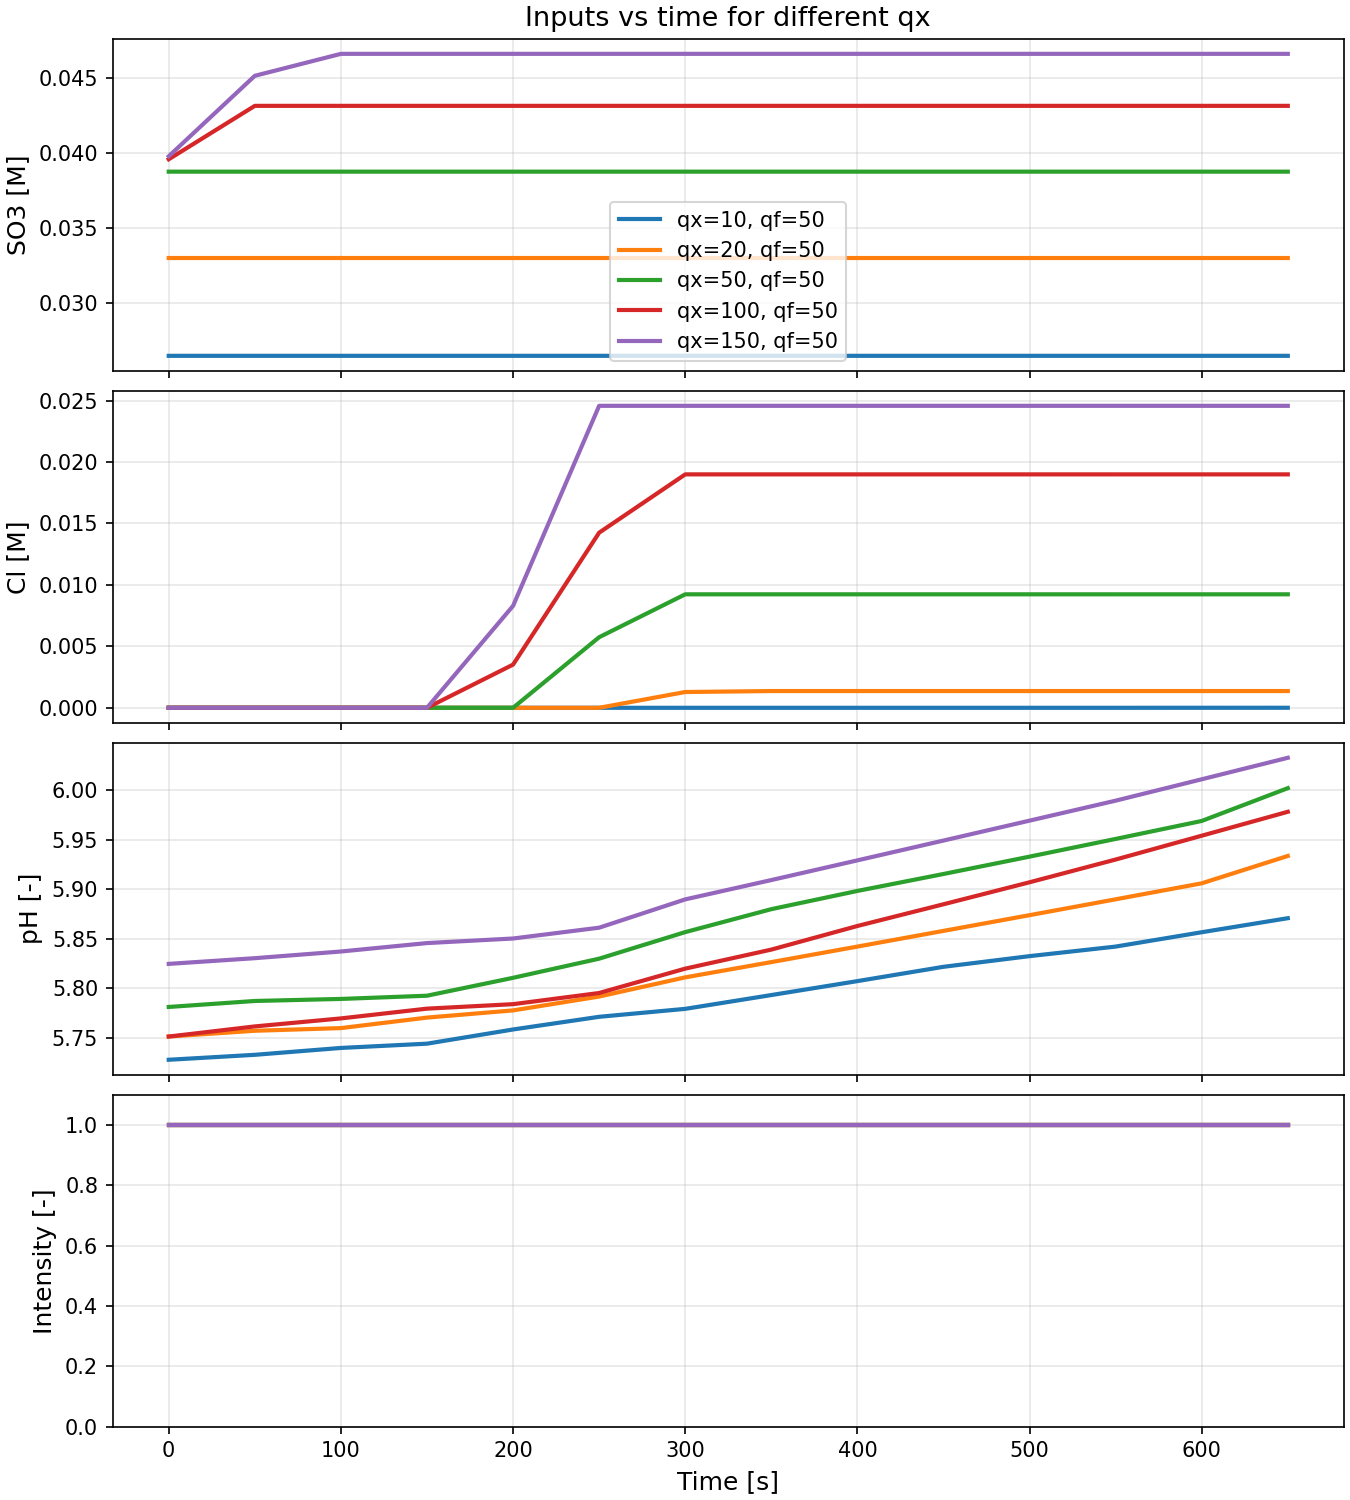
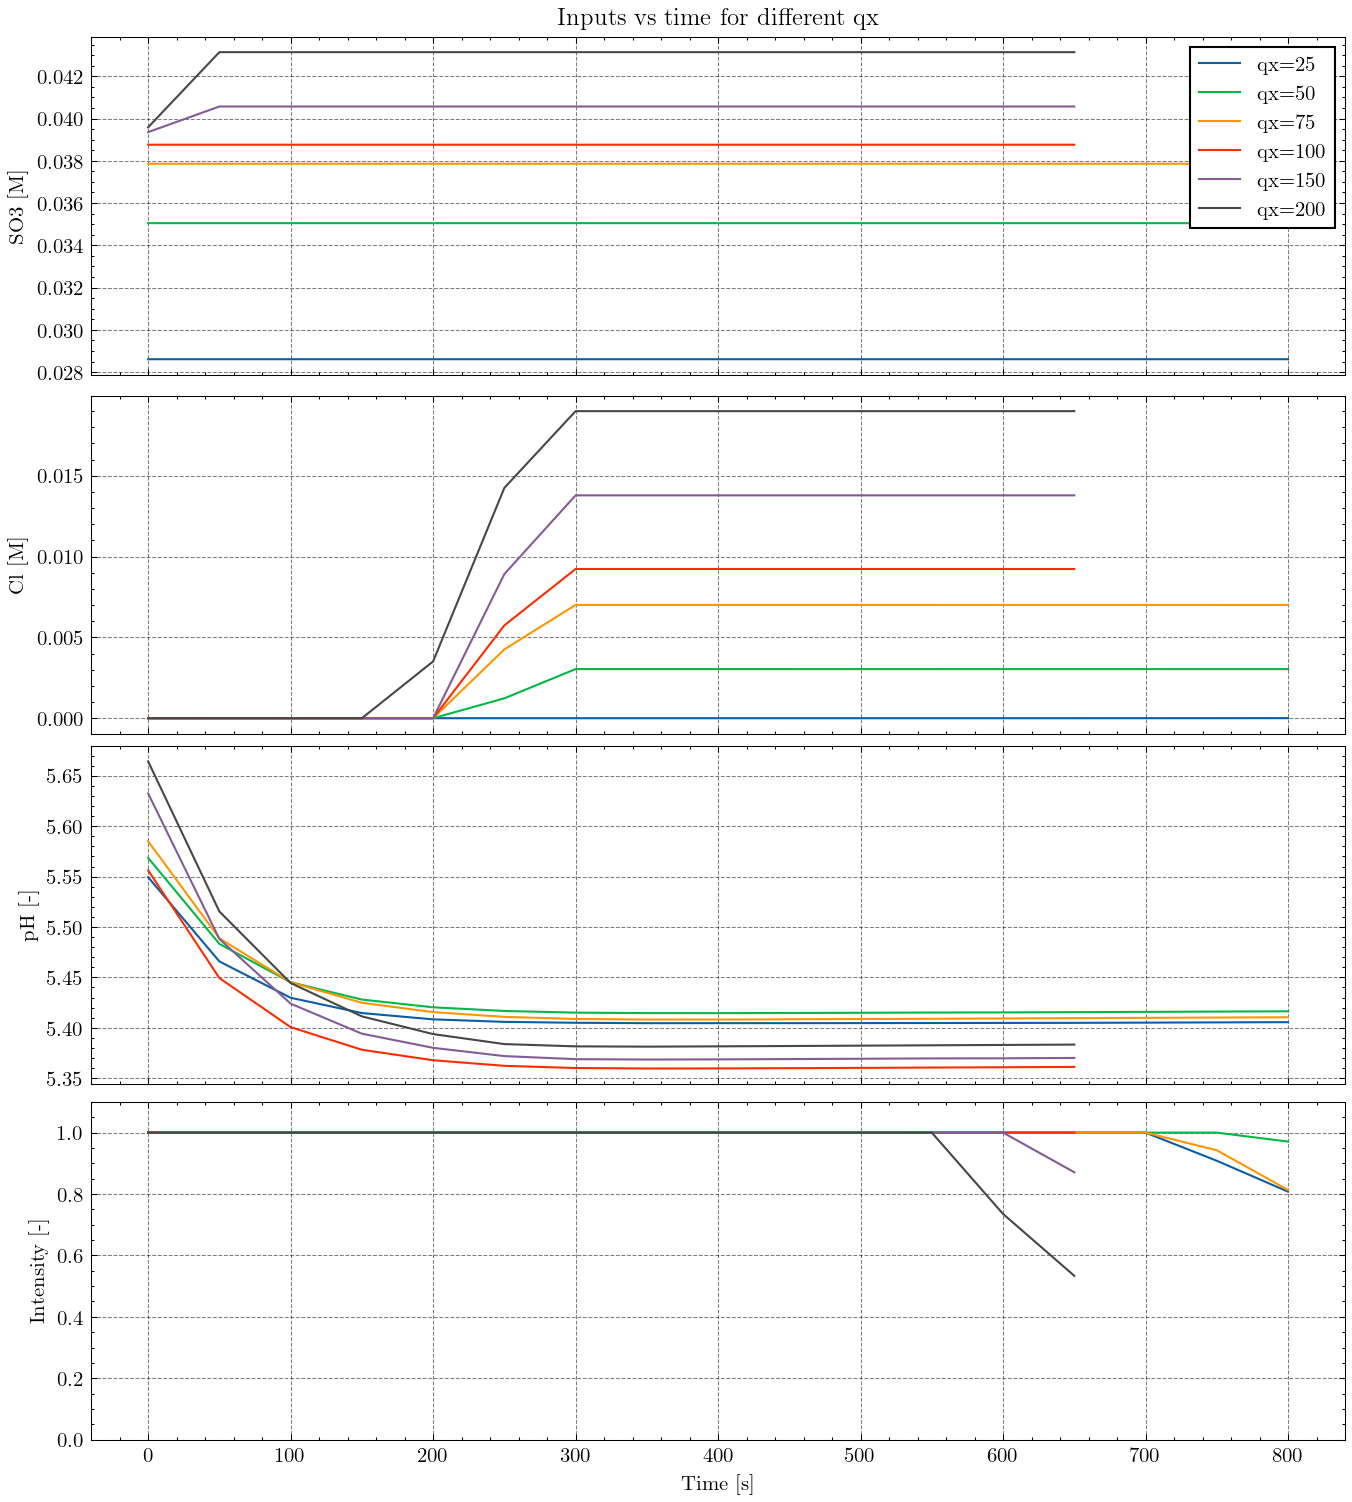
Changes to plot and tewaks to limits

diff --git a/Controller/sweep_costs.py b/Controller/sweep_costs.py
@@ -7,6 +7,7 @@ from pathlib import Path
 import numpy as np
 import matplotlib.pyplot as plt
 import sys
+import scienceplots
 
 from helper_functions import (
     find_project_root,
@@ -101,7 +102,7 @@ def run_sim(qx_val, qf_val, steps=50):
         c_pfas_init=init_vals["c_pfas_init"],
         dt=dt_sim,
         substeps=substeps,
-        N=3,
+        N=6,
         weights=weights,
         u_max=u_max,
         x0_flat=x0_flat,
@@ -179,50 +180,65 @@ def run_sim(qx_val, qf_val, steps=50):
 
 
 def main():
-    qx_list = [10, 20, 50, 100, 150]
+    qx_list = [25, 50, 75, 100, 150,200]
     qf_list = [50]
+    step_arr = [17,14]
 
     results = {}
     for qx in qx_list:
         for qf in qf_list:
+            if qx >= 100:
+                n_steps = step_arr[1]
+            else:
+                n_steps = step_arr[0]
             print(f"Running qx={qx}, qf={qf} ...")
-            t, X, costs, u_hist = run_sim(qx, qf, steps=14)
+            t, X, costs, u_hist = run_sim(qx, qf, steps=n_steps)
             results[(qx, qf)] = (t, X, costs,u_hist)
 
-    plt.rcParams.update({
-        "axes.labelsize": 12,
-        "axes.titlesize": 13,
-        "legend.fontsize": 10,
-        "xtick.labelsize": 10,
-        "ytick.labelsize": 10,
-        "lines.linewidth": 2.0,
-        "grid.alpha": 0.3,
-    })
+    plt.style.use(["science", "grid"])
+    plt.rcParams.update(
+    {
+        "legend.loc": "1",
+        "font.family": "serif",
+    }
+)
 
     fig, axes = plt.subplots(2, 1, figsize=(9, 9), constrained_layout=True)
 
     # Plot ΣPFAS over time
     ax0 = axes[0]
+    i = 0
     for (qx, qf), (t, X, _, _) in results.items():
+        i += 1
         Z = np.sum(X[:, :7], axis=1)
-        ax0.plot(t, Z, label=f"qx={qx}, qf={qf}")
+        if i == 1:
+            ax0.hlines(Z[0]*0.1, xmin=t[0]-1000, xmax=t[-1]+1000, colors='k', linestyles='dashed', label='$10\%$ remaning')
+            ax0.hlines(Z[0]*0.01, xmin=t[0]-1000, xmax=t[-1]+1000, colors='k', linestyles='dashed', label='$1\%$ remaning')
+            ax0.set_xlim(t[0], t[-1])
+        
+        ax0.plot(t, Z, label=f"qx={qx}")
     ax0.set_xlabel("Time [s]")
-    ax0.set_ylabel("Σ PFAS [M]")
-    ax0.set_title("Σ PFAS vs time for different (qx, qf)")
+    ax0.set_ylabel("$\sum$ PFAS [M]")
+    ax0.set_title("$\sum$ PFAS vs time for different parameter weights")
     ax0.grid(True)
-    ax0.legend()
+    ax0.legend(fancybox=False, edgecolor="black")
+
 
     # Plot actuation-only costs per step
     ax1 = axes[1]
-    for (qx, qf), (_, _, costs,_) in results.items():
-        ax1.plot(np.arange(len(costs)), costs, label=f"qx={qx}, qf={qf}")
-    ax1.set_xlabel("Step")
-    ax1.set_ylabel("Cost per mol PFAS removed [DKK/mol] (414.05g PFOA)")
-    ax1.set_title("Actuation-only cost per step")
+    i = 0
+    for (qx, qf), (t, _, costs,_) in results.items():
+        ax1.plot(t[0:-1], costs, label=f"qx={qx}")
+        i +=1
+        if i == 1:
+            ax1.set_xlim(t[0], t[-1])
+    ax1.set_xlabel("Time [s]")
+    ax1.set_ylabel("Cost [DKK/mol] (414.05g PFOA)")
+    ax1.set_title("Actuation-only cost")
     ax1.grid(True)
-    ax1.legend()
+    ax1.legend(fancybox=False, edgecolor="black")
 
-    out_path = Path(__file__).resolve().parent.parent / "sweep_costs.png"
+    out_path = Path(__file__).resolve().parent.parent / "results" / "sweep_costs.png"
     plt.savefig(out_path, dpi=150)
     print(f"Saved figure to {out_path}")
     plt.show()
@@ -233,19 +249,20 @@ def main():
     for idx, ax in enumerate(axes_act):
         for (qx, qf), (t, X, _, u_hist) in results.items():
             # u_hist shape: (steps, 4)
-            ax.plot(t[:-1], u_hist[:, idx], label=f"qx={qx}, qf={qf}" if idx == 0 else None)
+            ax.plot(t[:-1], u_hist[:, idx], label=f"qx={qx}" if idx == 0 else None)
         ax.set_ylabel(labels[idx])
         ax.grid(True)
         if idx == 0:
             ax.set_title("Inputs vs time for different qx")
     axes_act[-1].set_xlabel("Time [s]")
-    axes_act[0].legend()
+    axes_act[0].legend(fancybox=False, edgecolor="black")
     # intensity axis (last subplot) limited to [0, 1]
     axes_act[-1].set_ylim(0.0, 1.1)
-    out_path_act = Path(__file__).resolve().parent.parent / "sweep_costs_inputs.png"
+    out_path_act = Path(__file__).resolve().parent.parent /"results" / "sweep_costs_inputs.png"
     plt.savefig(out_path_act, dpi=150)
     print(f"Saved input figure to {out_path_act}")
     plt.show()
+    
     
 
 

diff --git a/Controller/helper_functions.py b/Controller/helper_functions.py
@@ -399,3 +399,52 @@ def mpc_adi(xk_flat: np.ndarray,
     print(f"  MPC CasADi solve complete - J*: {J_star:.4f}")
 
     return u_first, U_star, J_star
+def estimate_e_with_intensity(constants, c_so3, c_cl, pH, c_pfas_init,k1,intensity):
+    """
+    Estimate the hydrated electron concentration (eaq-) for given catalyst levels.
+    Mirrors the algebra used inside RungeKuttaIntegratorCell.generation_of_eaq().
+    Returns a scalar float [M].
+    """
+    c_oh_m = 10.0 ** (-14.0 + pH)
+
+    i0_185 = intensity * constants["I0_185"]
+    i0_254 = intensity * constants["I0_254"]
+
+    # Total absorption @185 nm
+    Sigma_f_185 = (constants["epsilon_h2o_185"] * constants["c_h2o"] +
+                   constants["epsilon_oh_m_185"] * c_oh_m +
+                   constants["epsilon_cl_185"]   * c_cl +
+                   constants["epsilon_so3_185"]  * c_so3 +
+                   constants["epsilon_pfas_185"] * c_pfas_init)
+
+    # Total absorption @254 nm
+    Sigma_f_254 = (constants["epsilon_h2o_254"] * constants["c_h2o"] +
+                   constants["epsilon_so3_254"]  * c_so3 +
+                   constants["epsilon_pfas_254"] * c_pfas_init)
+
+    # Fractions
+    f_h2o_185 = (constants["epsilon_h2o_185"] * constants["c_h2o"]) / Sigma_f_185
+    f_oh_m_185 = (constants["epsilon_oh_m_185"] * c_oh_m) / Sigma_f_185
+    f_cl_185   = (constants["epsilon_cl_185"]   * c_cl) / Sigma_f_185
+    f_so3_185  = (constants["epsilon_so3_185"]  * c_so3) / Sigma_f_185
+    f_so3_254  = (constants["epsilon_so3_254"]  * c_so3) / Sigma_f_254
+
+    # Absorbed fractions @185 nm
+    term_h2o_185 = f_h2o_185 * constants["phi_h2o_185"] * (1.0 - 10.0 ** (-constants["epsilon_h2o_185"] * constants["l"] * constants["c_h2o"]))
+    term_oh_m_185 = f_oh_m_185 * constants["phi_oh_m_185"] * (1.0 - 10.0 ** (-constants["epsilon_oh_m_185"] * constants["l"] * c_oh_m))
+    term_cl_185   = f_cl_185   * constants["phi_cl_185"]   * (1.0 - 10.0 ** (-constants["epsilon_cl_185"]   * constants["l"] * c_cl))
+    term_so3_185  = f_so3_185  * constants["phi_so3_185"]  * (1.0 - 10.0 ** (-constants["epsilon_so3_185"]  * constants["l"] * c_so3))
+    numerator_185 = i0_185* (term_h2o_185 + term_oh_m_185 + term_cl_185 + term_so3_185)
+
+    # Absorbed fraction @254 nm
+    numerator_254 = i0_254* f_so3_254 * constants["phi_so3_254"] * (1.0 - 10.0 ** (-constants["epsilon_so3_254"] * constants["l"] * c_so3))
+
+    numerator = float(numerator_185 + numerator_254)
+    
+    # Denominator (loss terms)
+    k_so3_eaq = 1.5e6
+    k_cl_eaq  = 1.0e6
+    beta_j    = 2.57e4
+    denominator = (k1 * c_pfas_init) + beta_j + (k_so3_eaq * c_so3) + (k_cl_eaq * c_cl)
+
+    return numerator / denominator

diff --git a/Controller/casadi_mpc.py b/Controller/casadi_mpc.py
@@ -445,13 +445,13 @@ def build_single_shoot_nlp(Phi: ca.Function,
 
         # Limit pH
         g.append(du[2]/14.0)
-        lbg += [0.0]
-        ubg += [3.0]
+        lbg += [-10.0]
+        ubg += [10.0]
 
         # Limit intensity
         g.append(du[3])
-        lbg += [0.0]
-        ubg += [0.5]
+        lbg += [-1.0]
+        ubg += [1.0]
 
         # update state for next step
         Vs = Vs_after

diff --git a/README.md b/README.md
@@ -24,7 +24,7 @@ Comprehensive controls, modeling, and simulation code for per- and polyfluoroalk
   ```bash
   python -m venv .venv
   source .venv/bin/activate
-  pip install tensorflow numpy pandas matplotlib casadi pyyaml typer pyserial scipy
+  pip install tensorflow numpy pandas matplotlib casadi pyyaml typer pyserial scipy SciencePlots
   ```
 
 Some functionality (e.g., pump/sensor drivers) requires access to serial devices; ensure the user running the code has permission to open the configured ports.
